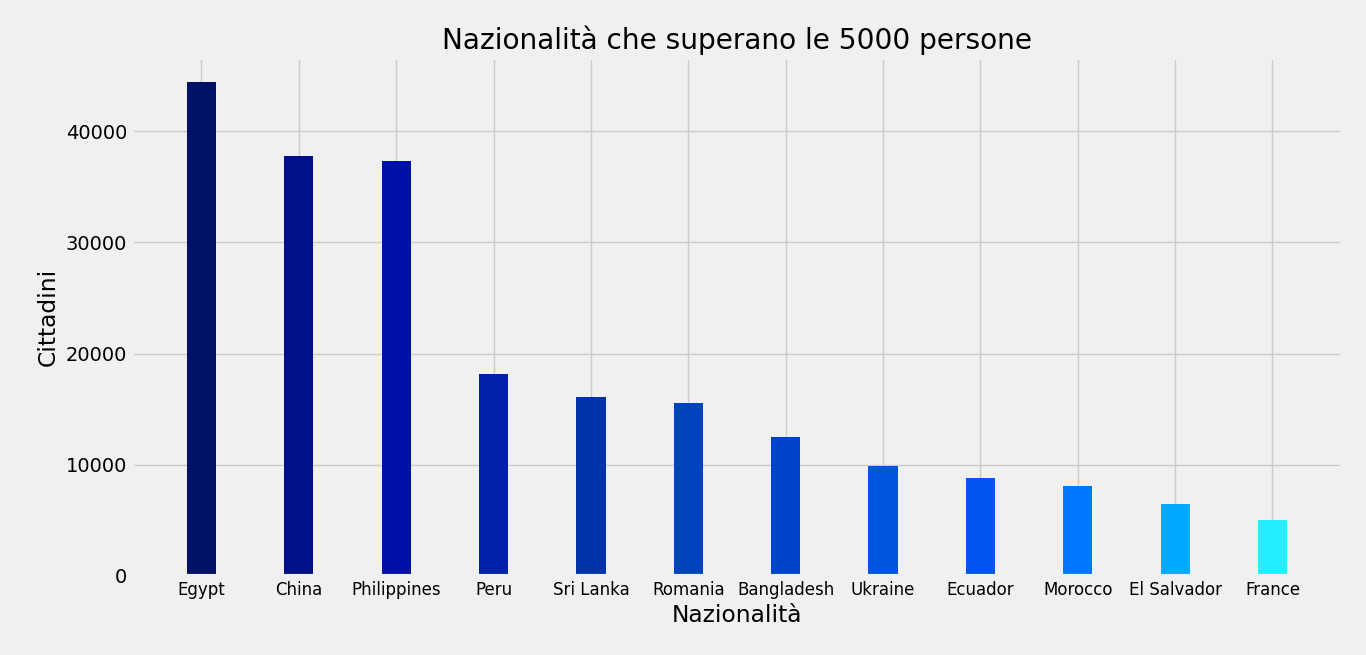
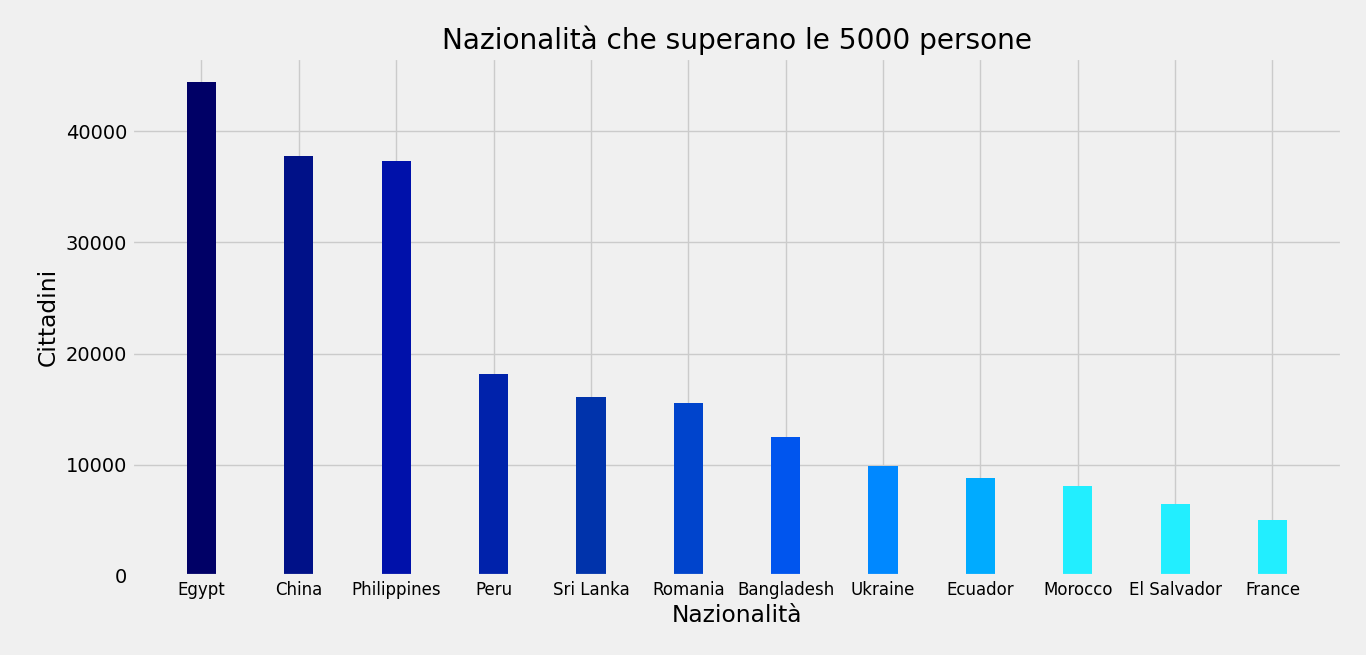
Using a more easy to distinguish sequence of colors.

diff --git a/frequency_of_nationalities.py b/frequency_of_nationalities.py
@@ -19,7 +19,7 @@ filtered_nationalities = filtered_nationalities.sort_values(by='Residenti', asce
 
 plt.figure(figsize=(12, 6))
 plt.bar(filtered_nationalities['Cittadinanza'], filtered_nationalities['Residenti'], 
-        color=["#001166", "#001188", "#0011AA", "#0022AA", "#0033AA", "#0044BB", "#0044CC", "#0055DD", "#0055EE", "#0077FF", "#00AAFF", "#22EEFF"], 
+        color=["#000066", "#001188", "#0011AA", "#0022AB", "#0033AB", "#0044CC", "#0055EE", "#0088FF", "#00ABFF", "#22EEFF", "#22EEFF", "#22EEFF"], 
         width=0.3)
 plt.xlabel('Nazionalità')
 plt.ylabel('Cittadini')

diff --git a/pie_chart_with_legend.py b/pie_chart_with_legend.py
@@ -39,7 +39,7 @@ wedges, _ = ax.pie(
     startangle=90,
     wedgeprops={'edgecolor': 'black'},
     #colors=["red", "orange", "yellow", "lightgreen", "green", "blue", "skyblue", "purple", "pink", "brown", "gray", "lightgrey"]
-    colors=["#001166", "#001188", "#0011AA", "#0022AA", "#0033AA", "#0044BB", "#0044CC", "#0055DD", "#0055EE", "#0077FF", "#00AAFF", "#22EEFF"]
+    colors=["white", "#000066", "#001188", "#0011AA", "#0022AB", "#0033AB", "#0044CC", "#0055EE", "#0088FF", "#00ABFF", "#22EEFF"]
 )
 
 fig.suptitle(
